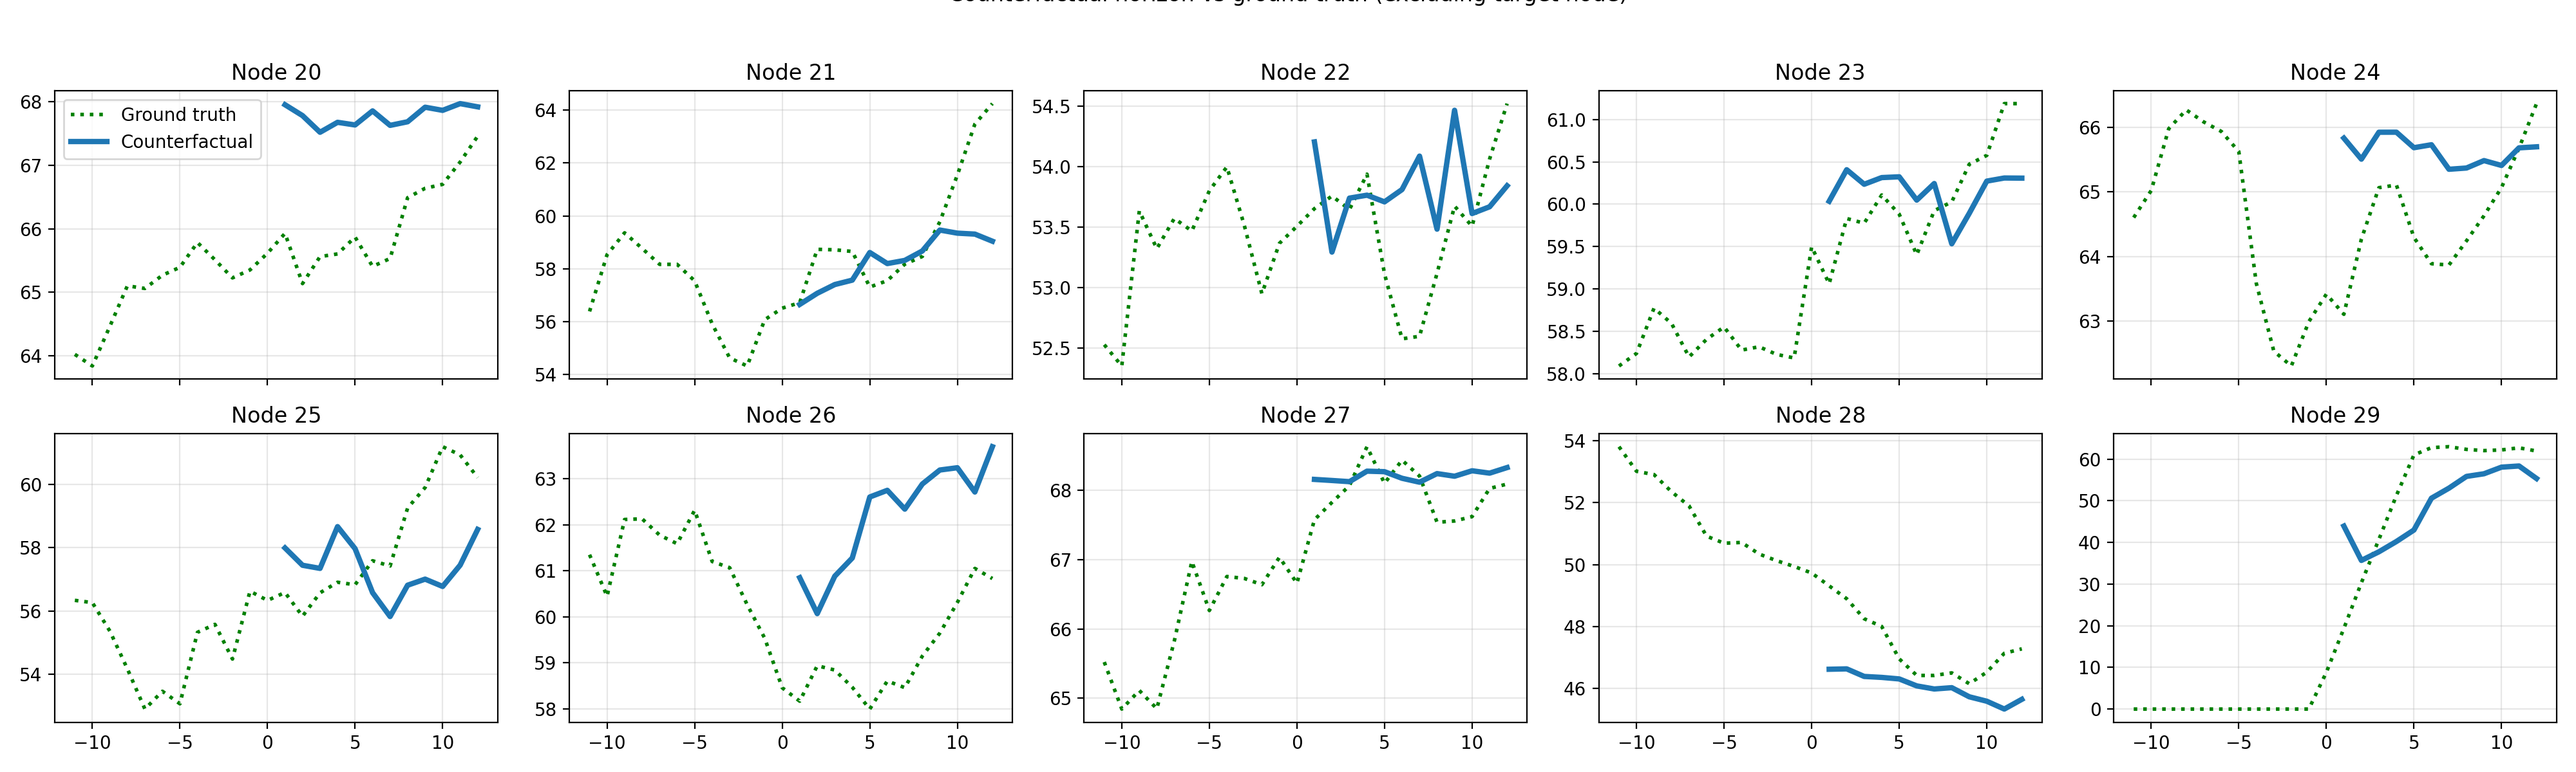
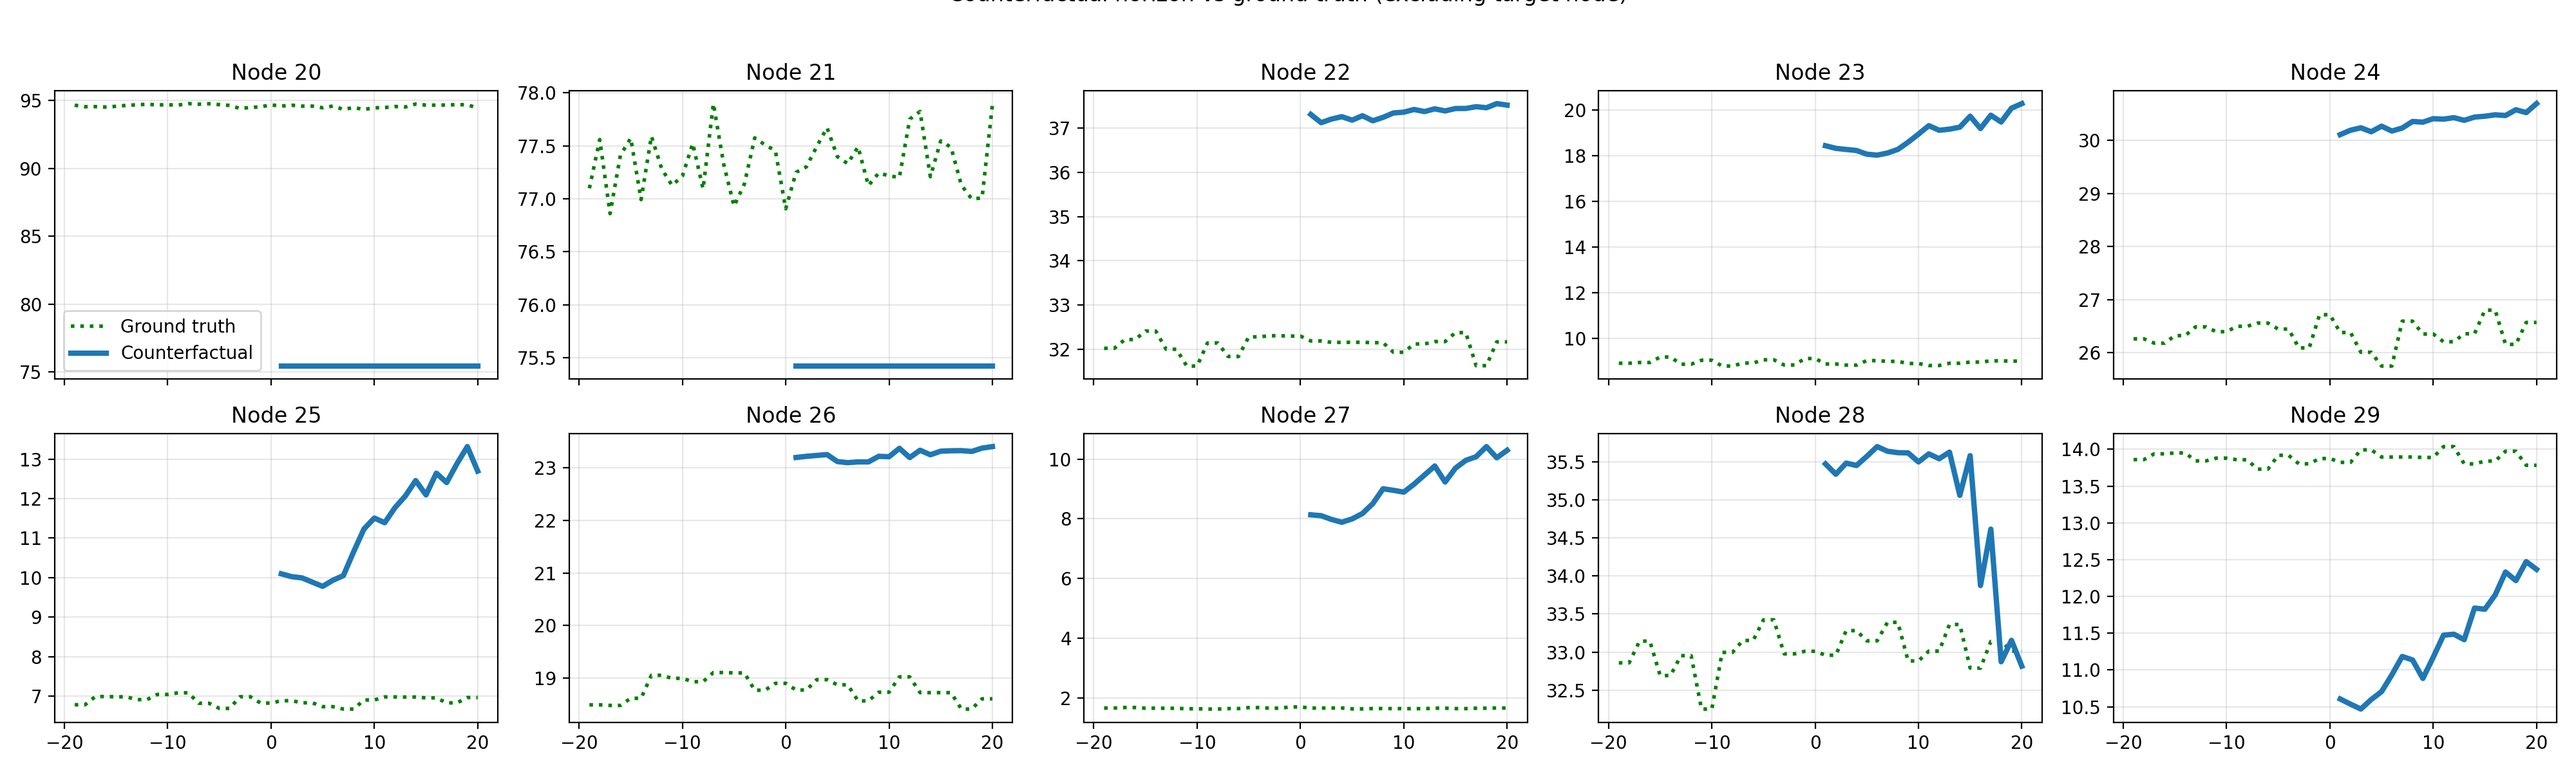
Update counterfactual generation logic and enhance perturbation handling
- Modified the `run_counterfactual_command` function to improve the perturbation window construction for control and dependent nodes.
- Introduced separate tracking for control and dependent nodes, allowing for more accurate perturbation and forecasting.
- Updated the logic to handle the combination of control and dependent node values during iterative counterfactual generation.
- Enhanced the handling of forecasted values for dependent nodes, ensuring proper integration with the perturbation process.
- Updated several counterfactual plot images for better visualization.

diff --git a/main.py b/main.py
@@ -1928,19 +1928,72 @@ def run_counterfactual_command(args: argparse.Namespace) -> None:
         # Dependent nodes: cannot be perturbed (edit_mask is zero, includes target node)
         node_is_control = (edit_mask[-1].sum(dim=-1) > 0)  # Shape (N,)
         node_is_dependent = ~node_is_control  # Shape (N,)
+        control_indices = torch.where(node_is_control)[0]  # Indices of control nodes
+        dependent_indices = torch.where(node_is_dependent)[0]  # Indices of dependent nodes
+
+        # Initialize separate tracking for control and dependent nodes
+        # Control window: tracks control node values with perturbations
+        lag_len = past_window.shape[0]  # T
+        control_window = past_window.to(device).float()[:, control_indices, :].clone()  # (T, num_control, F)
+        # Dependent buffer: stores original dependent values (will be augmented with forecasts)
+        dependent_buffer = past_window.to(device).float()[:, dependent_indices, :].clone()  # (T, num_dep, F)
+        # Forecast list: stores F(T), F(T+1), ... for dependent nodes
+        forecast_list: list[torch.Tensor] = []
 
         for step in range(iter_steps):
-            # Step 1: Shift left and duplicate last value for perturbation
-            # This creates a window where position T-1 is a copy of position T-2
-            shifted_window = torch.cat([current_window[1:], current_window[-1:].clone()], dim=0)
+            # === Build perturbation window ===
+            # Control nodes: shift left + duplicate last perturbed value
+            # Dependent nodes: use buffer/forecasts + mask last position with 0
 
-            # Record pre-perturbation value (from the duplicated last position)
-            if 0 <= target_ch < shifted_window.shape[-1]:
-                iterative_prev_last_lag[:, step] = shifted_window[-1, :, target_ch]
+            # Build control portion of perturbation window
+            if step == 0:
+                # Step 0: no shift needed for control, just use original
+                control_perturb = control_window.clone()  # (T, num_control, F)
+            else:
+                # Step 1+: shift left + duplicate last perturbed value
+                control_perturb = torch.cat([control_window[1:], control_window[-1:].clone()], dim=0)
 
-            # Get baseline prediction from shifted window (before perturbation)
+            # Build dependent portion of perturbation window
+            if step == 0:
+                # Step 0: [lag_0, ..., lag_(T-2), 0]
+                dep_perturb = dependent_buffer.clone()
+                dep_perturb[-1, :, :] = 0.0  # Mask last position
+            elif step == 1:
+                # Step 1: [lag_1, ..., lag_(T-1), 0] - shift and restore original T-1
+                dep_perturb = torch.cat([dependent_buffer[1:], torch.zeros_like(dependent_buffer[-1:])], dim=0)
+            else:
+                # Step 2+: [lag_k, ..., F(T), F(T+1), ..., 0] - use forecasts
+                # Build window from remaining original lags + forecasts
+                num_original_remaining = max(0, lag_len - step)
+                dep_perturb = torch.zeros((lag_len, len(dependent_indices), dependent_buffer.shape[-1]), device=device)
+
+                if num_original_remaining > 0:
+                    # Copy remaining original values (shifted)
+                    dep_perturb[:num_original_remaining] = dependent_buffer[step:step + num_original_remaining]
+
+                # Fill with forecasts where original lags are exhausted
+                num_forecasts_to_use = min(len(forecast_list), lag_len - 1 - num_original_remaining)
+                for i in range(num_forecasts_to_use):
+                    pos = num_original_remaining + i
+                    if pos < lag_len - 1:  # Don't overwrite last position (will be masked)
+                        # forecast_list[i] has shape (1, N, 1), extract dependent nodes
+                        dep_perturb[pos, :, :] = forecast_list[i][0, dependent_indices, :]
+
+                # Last position is always masked with 0
+                dep_perturb[-1, :, :] = 0.0
+
+            # Combine control and dependent into full perturbation window
+            perturb_window = torch.zeros((lag_len, bundle.num_nodes, bundle.num_features), device=device)
+            perturb_window[:, control_indices, :] = control_perturb
+            perturb_window[:, dependent_indices, :] = dep_perturb
+
+            # Record pre-perturbation value
+            if 0 <= target_ch < perturb_window.shape[-1]:
+                iterative_prev_last_lag[:, step] = perturb_window[-1, :, target_ch]
+
+            # Get baseline prediction (before perturbation)
             with torch.no_grad():
-                step_input = prepare_forecaster_input(shifted_window.unsqueeze(0))
+                step_input = prepare_forecaster_input(perturb_window.unsqueeze(0))
                 step_pred = forecaster_module.forward_pass(
                     short_forecaster,
                     step_input,
@@ -1979,8 +2032,8 @@ def run_counterfactual_command(args: argparse.Namespace) -> None:
                 lag_weights=short_meta.get("lag_weights"),
             )
 
-            # Step 2: Perturb the shifted window (only last position is editable)
-            fixed_values = shifted_window.unsqueeze(0).repeat(args.samples, 1, 1, 1)
+            # === Run perturbation (only control nodes at last position are editable) ===
+            fixed_values = perturb_window.unsqueeze(0).repeat(args.samples, 1, 1, 1)
             warm_start = fixed_values if args.warm_start else None
             samples = generator.generate(
                 sample_shape=sample_shape,
@@ -1991,6 +2044,10 @@ def run_counterfactual_command(args: argparse.Namespace) -> None:
                 edit_mask=mask_batched,
                 fixed_values=fixed_values,
             )
+
+            # === Build forecaster input with perturbed control values ===
+            # Control nodes: use perturbed values from samples
+            # Dependent nodes: same as perturbation input (masked at last position)
 
             # Evaluate samples and select best based on forecast MSE
             with torch.no_grad():
@@ -2012,7 +2069,7 @@ def run_counterfactual_command(args: argparse.Namespace) -> None:
 
             best_idx = int(torch.argmin(mse).item())
             best_indices.append(best_idx)
-            best_pred = cf_preds[best_idx]
+            best_pred = cf_preds[best_idx]  # Shape: (N, 1)
             iterative_predictions[:, step] = best_pred.squeeze(-1)
             mse_per_step.append(float(mse[best_idx].item()))
 
@@ -2021,16 +2078,25 @@ def run_counterfactual_command(args: argparse.Namespace) -> None:
                 iterative_edited_last_lag[:, step] = best_window[-1, :, target_ch]
             best_windows.append(best_window.detach().cpu())
 
-            # Step 3: Construct f*(T) - hybrid of perturbed control values and forecasted dependent values
-            # - Control nodes: keep perturbed values from best_window[-1] (all features)
-            # - Dependent nodes: use forecast for target channel, perturbed values for other channels
-            #   (other channels of dependent nodes are unchanged since they weren't editable)
-            next_step = best_window[-1].clone()  # Start with all perturbed values (correct for control nodes)
-            if 0 <= target_ch < next_step.shape[-1]:
-                # Only update dependent nodes' target channel with forecast
-                # Control nodes keep their perturbed values for all features
-                next_step[node_is_dependent, target_ch] = best_pred[node_is_dependent, 0]
-            current_window = torch.cat([current_window[1:], next_step.unsqueeze(0)], dim=0)
+            # === Store forecast for dependent nodes ===
+            # best_pred has shape (N, 1), we store it for use in future steps
+            forecast_list.append(best_pred.unsqueeze(0))  # Shape: (1, N, 1)
+
+            # === Update control window with perturbed values ===
+            # Extract perturbed control values and update control_window
+            perturbed_control = best_window[:, control_indices, :]  # (T, num_control, F)
+            if step == 0:
+                # Step 0: just update with perturbed values
+                control_window = perturbed_control.clone()
+            else:
+                # Step 1+: the perturbed window was shifted+duplicated, now update
+                control_window = perturbed_control.clone()
+
+        # Reconstruct current_window from control and dependent portions for final output
+        current_window = torch.zeros((lag_len, bundle.num_nodes, bundle.num_features), device=device)
+        current_window[:, control_indices, :] = control_window
+        # For dependent nodes, use the last perturbation window's dependent portion
+        current_window[:, dependent_indices, :] = dep_perturb
 
         iterative_predictions_cpu = iterative_predictions.detach().cpu()
         iterative_prev_last_lag_cpu = iterative_prev_last_lag.detach().cpu()
